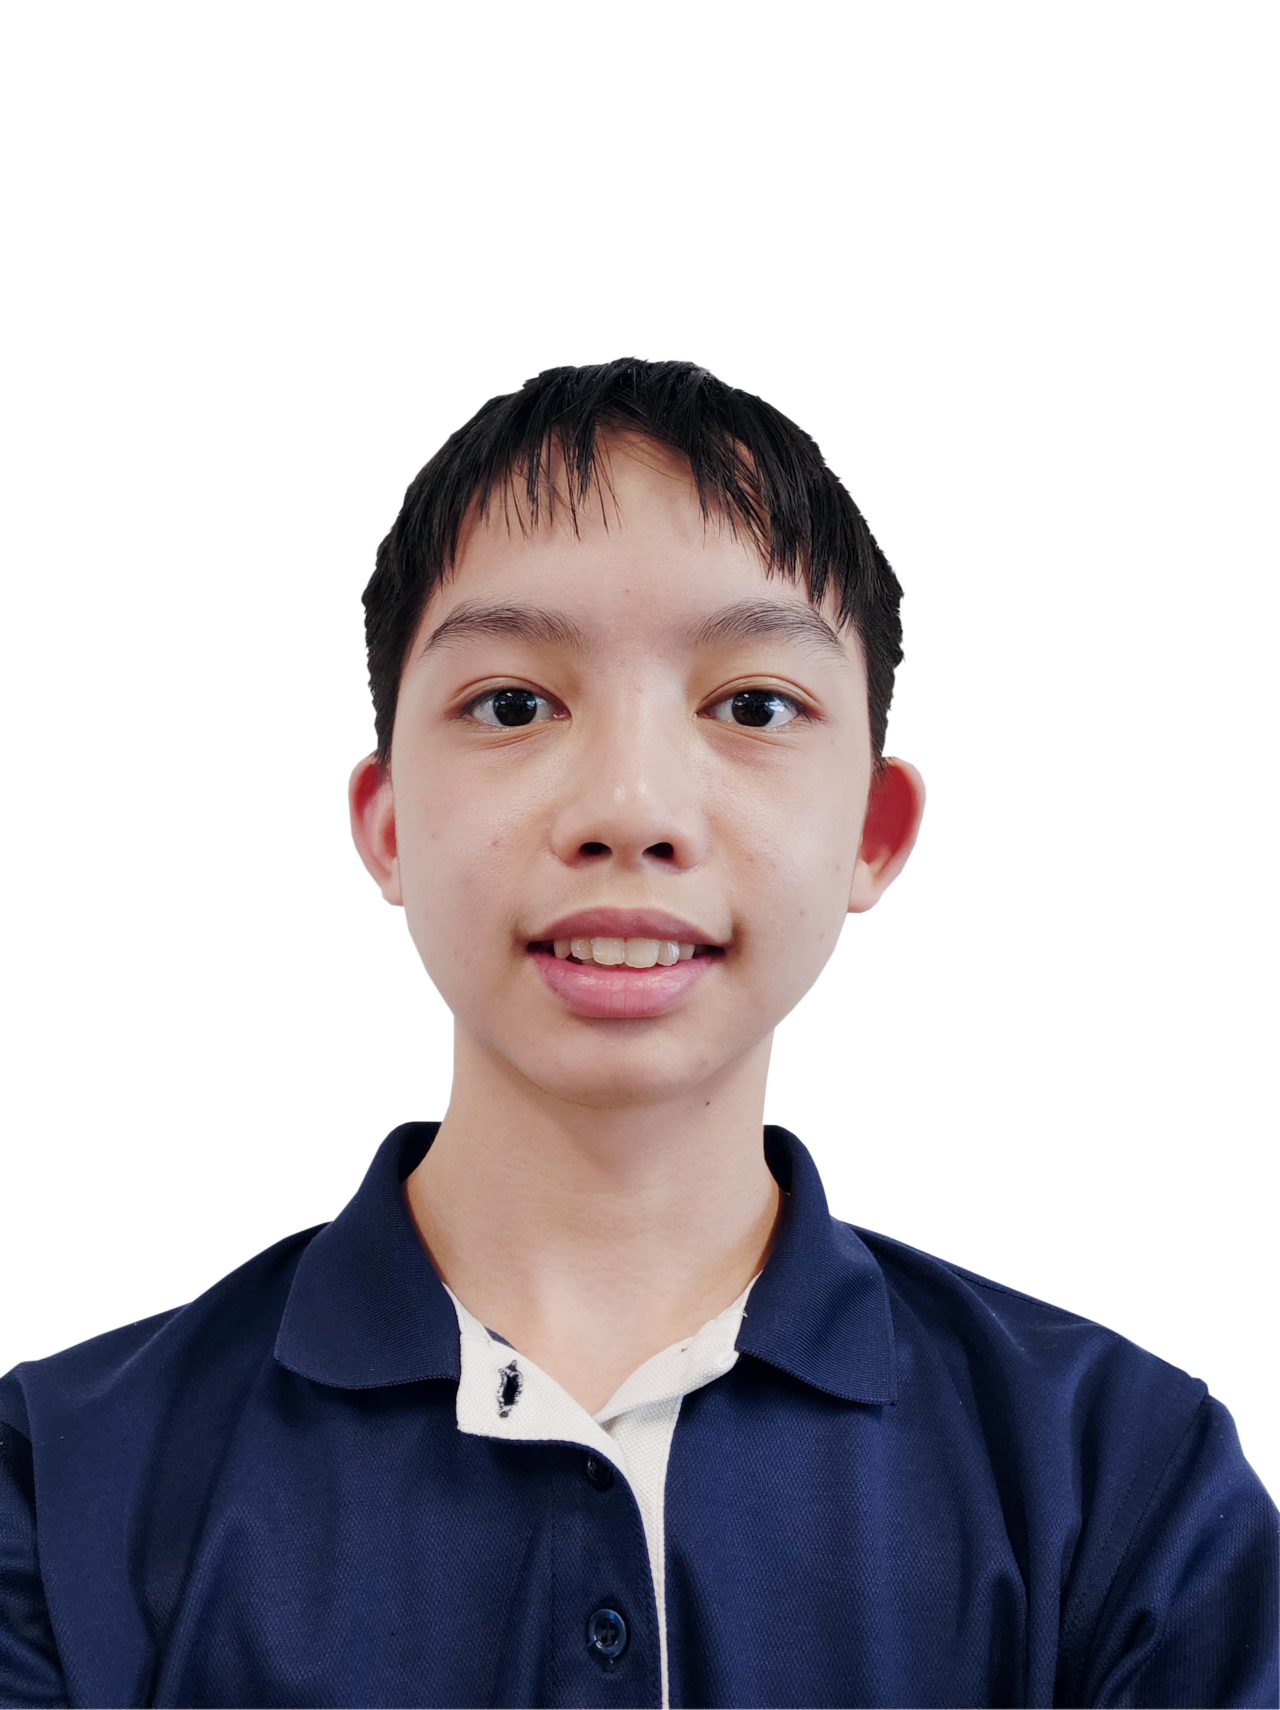
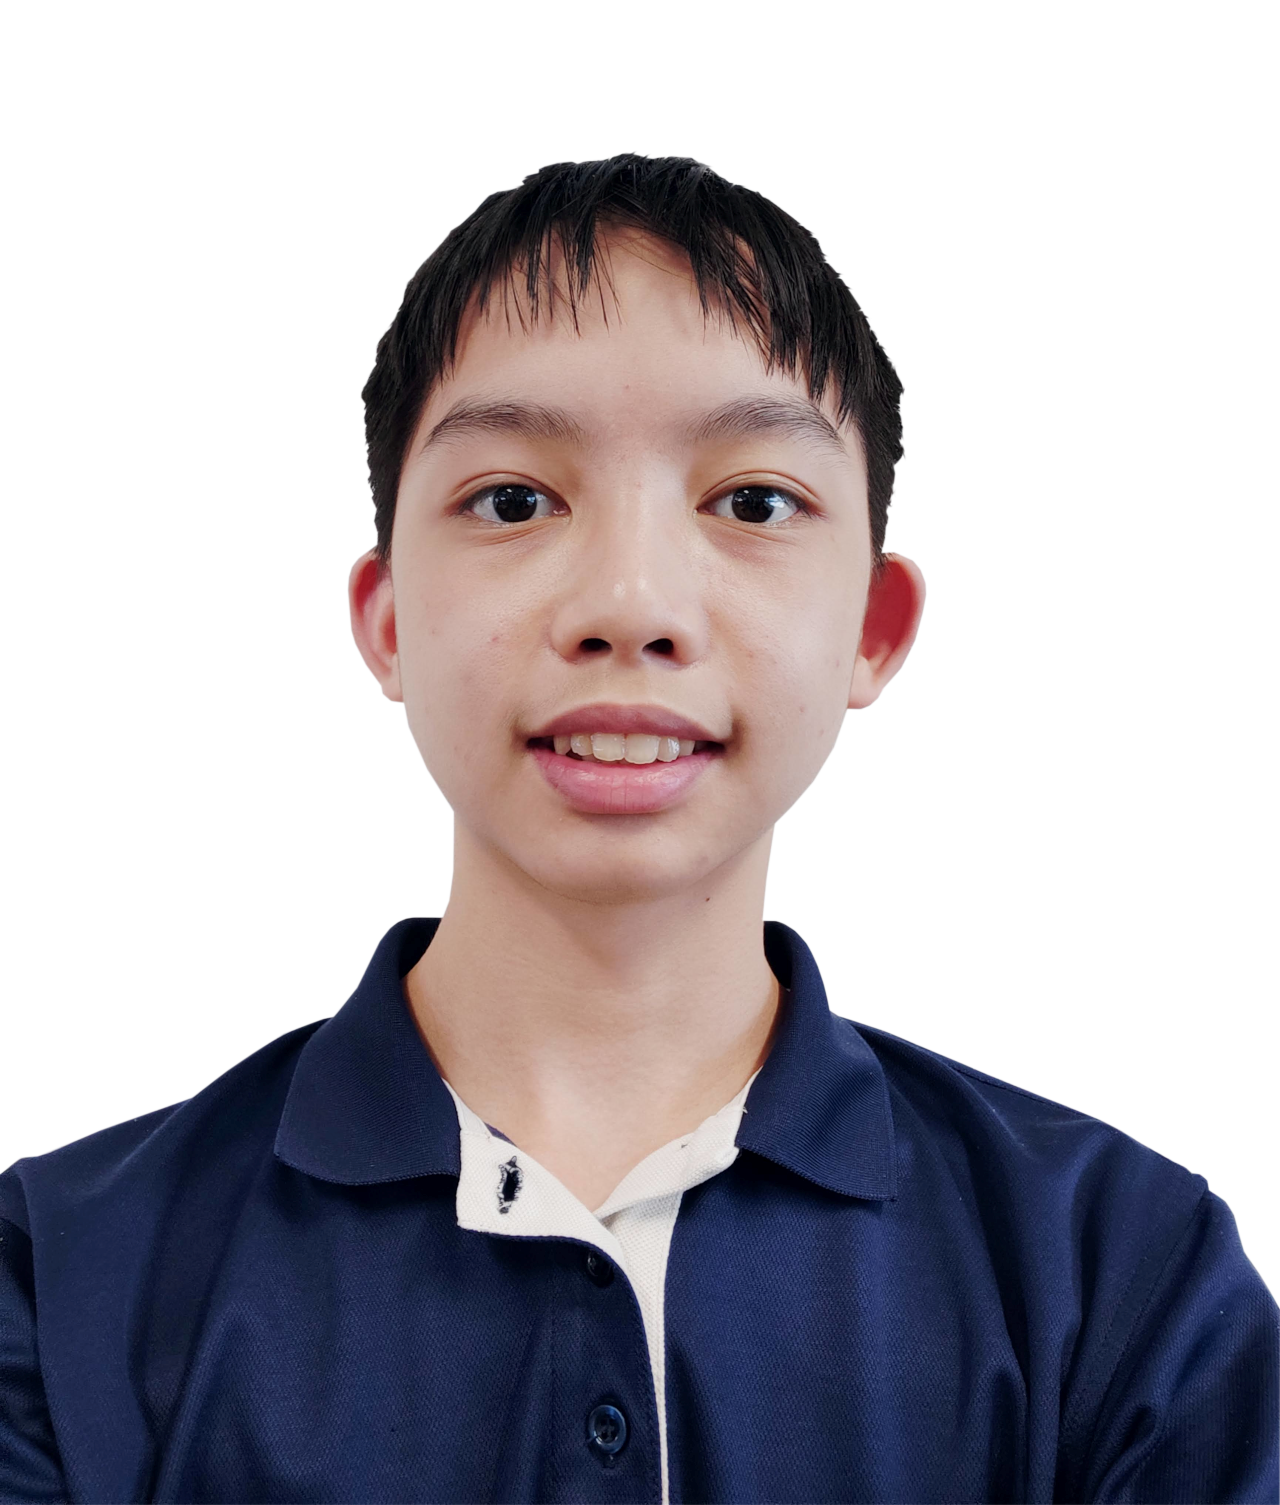
Assignment 1 and 2 v2

diff --git a/Assignments/Assignment 1.html b/Assignments/Assignment 1.html
@@ -27,10 +27,10 @@
                   <div id="GitHubV">
                     <p>For assignment 1, we created a GitHub repository to host our project website. We followed the video on the left, by:</p>
                     <li>Creating a GitHub account</li>
-                    <li>Creating a repository</li>
+                    <li>Creating a repository for the website</li>
                     <li>Downloading and linking GitHub desktop to the repository</li>
-                    <li></li>
-                    <li><a href="https://github.com/TimC2225/TimC2225.github.io">Final GitHub link</a></li>
+                    <li>Adding HTML files for the various pages of the website</li>
+                    <li>Resulting in the <a href="https://github.com/TimC2225/TimC2225.github.io">final GitHub link.</a></li>
                   </div>
                 </div>
                 <hr>
@@ -38,9 +38,14 @@
                   <div id="HtmlCssV">
                     <h3>HTML and CSS:</h3>
                     <iframe id="AV2" src="https://www.youtube.com/embed/bWPMSSsVdPk"></iframe> 
-                    <p>Lorem ipsum, dolor sit amet consectetur adipisicing elit. Ea odit, possimus, reprehenderit mollitia inventore doloremque fuga sed, officia dignissimos quidem autem nulla rem, accusamus! Impedit blanditiis necessitatibus voluptate sed eos.</p>
+                    <p>For the first potion of assignment 2, we first started by watching the video on the right. Through this video, we learned how to set up a basic HTML-based website, specifically learning how to insert a title, headers, paragraphs, breaks, lines, and images.</p>
                     <iframe id="AV3" src="https://www.youtube.com/embed/0afZj1G0BIE"></iframe> 
-                    <p id="Css">Lorem ipsum dolor sit amet consectetur adipisicing elit. Ut deleniti ullam maiores cum nisi nulla mollitia dolorem distinctio doloribus ad voluptatum, adipisci numquam soluta exercitationem explicabo harum reiciendis hic laudantium.</p>
+                    <p id="Css">For the second portion of assignment 2, we continued by watching the video on the left. Through this video, we learned how to plan out a design for a website and use CSS to make the website more aesthetically pleasing and easy to navigate.</p>
+                    <p id="Css">In particular, we learned how to change the colour of backgrounds, text, and other containers, learned how to add padding and margins to different components of the website, and learned how to change the dimensions of the components of the website among other functions.</p>
+                    <hr>
+                    <h3>Other Resources:</h3>
+                    <img id="A1P" src="../Images/Assignment 2 Home.png">
+                    <p id="OtherR">Apart from these videos, I also used resources from the web to help build my website. For example, I used YouTube videos and websites like w3schools.com to learn how to insert compenets like embedded Youtube videos and GIFs, alongside learning how to make the website scalable, resulting in the current website as of completing assignment 2:</p>
                   </div>
                 </div>
               </div>

diff --git a/style.css b/style.css
@@ -71,6 +71,33 @@ body {
   text-align: right;
 }
 
+#main h1 {
+    animation-duration: 3s;
+    animation-name: slideinright;
+}
+
+#main h2 {
+  animation-duration: 3.5s;
+  animation-name: slideinright;
+}
+
+#main p {
+  animation-duration: 4s;
+  animation-name: slideinright;
+}
+
+@keyframes slideinright {
+  from {
+    margin-left: 200%;
+    width: 300%;
+  }
+  
+  to {
+    margin-left: 0%;
+    width: 100%;
+  }
+}
+
 #main {
   width: auto;
   padding-left: 2%;
@@ -80,21 +107,39 @@ body {
   float: left;
 }
 
+#main p {
+  font-size: large;
+}
+
 #about {
   width: 50%;
   float: right;
   padding-top: 5%;
   padding-bottom: 2%;
   padding-right: 2%;
+  animation-duration: 2s;
+  animation-name: slideinbottom;
 }
 
 #selfie {
   float: left;
   width: 40%;
   padding-left: 2%;
-  padding-right: 2%;
+  padding-right: 1%;
   padding-top: 0%;
   padding-bottom: 3%;
+  animation-duration: 2s;
+  animation-name: slideinbottom;
+}
+
+@keyframes slideinbottom {
+  from {
+    margin-top: 100%;
+  }
+  
+  to {
+    margin-top: 0%;
+  }
 }
 
 #Assignment {
@@ -127,6 +172,11 @@ body {
   text-decoration: underline;
 }
 
+#GitHubV a {
+    text-decoration: underline;
+    color: #ac3f3f;
+}
+
 #AV1 {
   float: left;
   width: 520; 
@@ -152,8 +202,20 @@ body {
   margin-bottom: 2%;
 }
 
+#A1P {
+  clear: left;
+  float: right;
+  width: 40%;
+  margin-left: 2%;
+  margin-bottom: 2%;
+}
+
 #Css {
   clear: right;
+}
+
+#OtherR {
+  clear: left;
 }
 
 hr {

diff --git a/index.html b/index.html
@@ -18,10 +18,9 @@
             </div> 
             <div id="content">
               <div id="main">
-                <h2>Home Page</h2>
-                <p>Lorem ipsum dolor, sit amet consectetur adipisicing elit. Omnis, inventore odio vero sapiente, aliquam dolorem vel hic error beatae. Est beatae similique itaque a perspiciatis delectus ab adipisci harum odio!</p>
-                <p>Lorem ipsum, dolor sit amet consectetur adipisicing elit. Ea odit, possimus, reprehenderit mollitia inventore doloremque fuga sed, officia dignissimos quidem autem nulla rem, accusamus! Impedit blanditiis necessitatibus voluptate sed eos.</p>
-                <p>Lorem ipsum dolor sit amet consectetur adipisicing elit. Ut deleniti ullam maiores cum nisi nulla mollitia dolorem distinctio doloribus ad voluptatum, adipisci numquam soluta exercitationem explicabo harum reiciendis hic laudantium.</p>
+                <h1>Hello, Welcome to my website.</h1>
+                <h2>I am Timothy Choo Yern Weng, from class DEEE/FT/2A/04</h2>
+                <p>This website contains some information about me, and covers the documentation of the assignments and final project undertaken throughout the EP1000 module.</p>              
               </div>
             </div>
             <div id="footer">

diff --git a/about.html b/about.html
@@ -23,7 +23,7 @@
                   <p>Lorem ipsum, dolor sit amet consectetur adipisicing elit. Ea odit, possimus, reprehenderit mollitia inventore doloremque fuga sed, officia dignissimos quidem autem nulla rem, accusamus! Impedit blanditiis necessitatibus voluptate sed eos.</p>
                   <p>Lorem ipsum dolor sit amet consectetur adipisicing elit. Ut deleniti ullam maiores cum nisi nulla mollitia dolorem distinctio doloribus ad voluptatum, adipisci numquam soluta exercitationem explicabo harum reiciendis hic laudantium.</p>
               </div>
-              <img id="selfie" src="Images/IMG_20210125_144149.png">
+              <img id="selfie" src="Images/IMG_20210125_144149_2.png">
           </div>
           <div id="footer">
               Copyright &copy; 2023 

diff --git a/Assignments/Assignment 3.html b/Assignments/Assignment 3.html
@@ -17,17 +17,15 @@
             </div>
           </div> 
           <div id="content">
-              <div id="Assignment">
-                <div id="title2">
-                  <h2>Assignment 3 - 2D and 3D CAD</h2>
-                </div>
-                <div id="2D">
-                  <h3>2D:</h3>
-
-                  <p>In exercise 1, we </p>
-                </div>
+            <div id="Assignment">
+              <div id="title2">
+                <h2>Assignment 3 - 2D and 3D CAD</h2>
               </div>
-              <img id="selfie" src="">
+              <div id="2D">
+                <h3>2D:</h3>
+                <p>In exercise 1, we </p>
+              </div>
+            </div>
           </div>
           <div id="footer">
               Copyright &copy; 2023 

diff --git a/assignments page.html b/assignments page.html
@@ -23,8 +23,8 @@
                 </div>
                 <div id="Assignment_list">
                   <div class="flex-container">
-                    <p><a href="Assignments/Assignment 1.html">Assignment 1 - GitHub and Html Creation</a></p>
-                    <p><a href="Assignments/Assignment 2.html">Assignment 2 - 2D and 3D CAD</a></p>
+                    <p><a href="Assignments/Assignment 1.html">Assignment 1 and 2 - GitHub and Html Creation</a></p>
+                    <p><a href="Assignments/Assignment 3.html">Assignment 3 - 2D and 3D CAD</a></p>
                     <p><a href="">Assignment 3</a></p>
                     <p><a href="Assignments/Placeholder assignment.html">Assignment ...</a></p>
                   </div>
